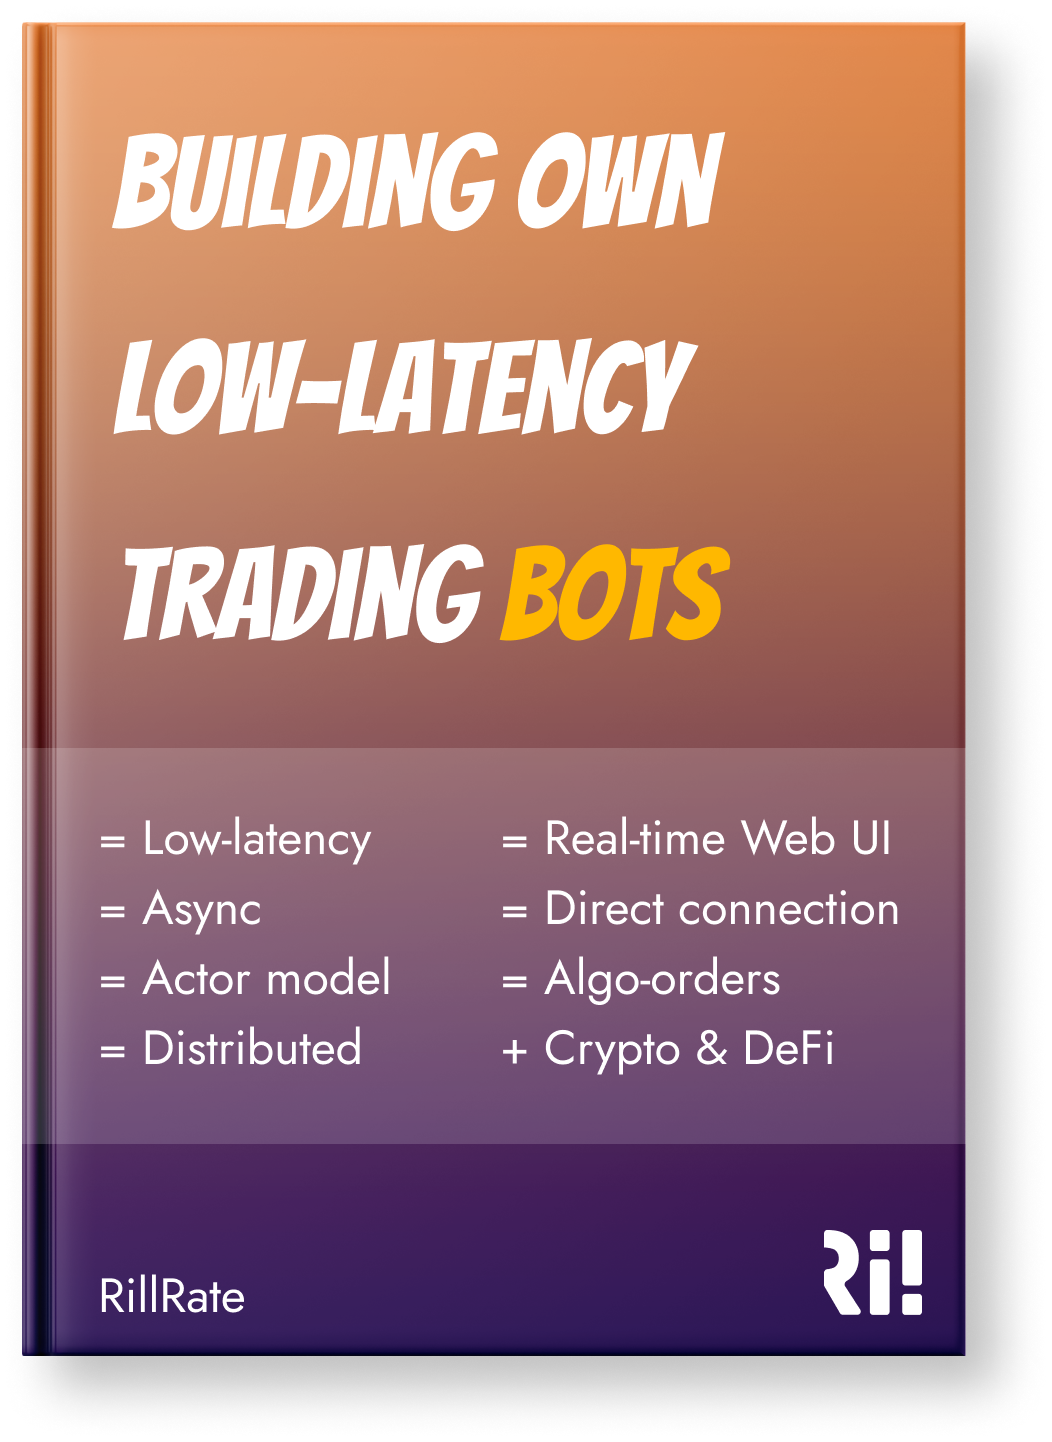
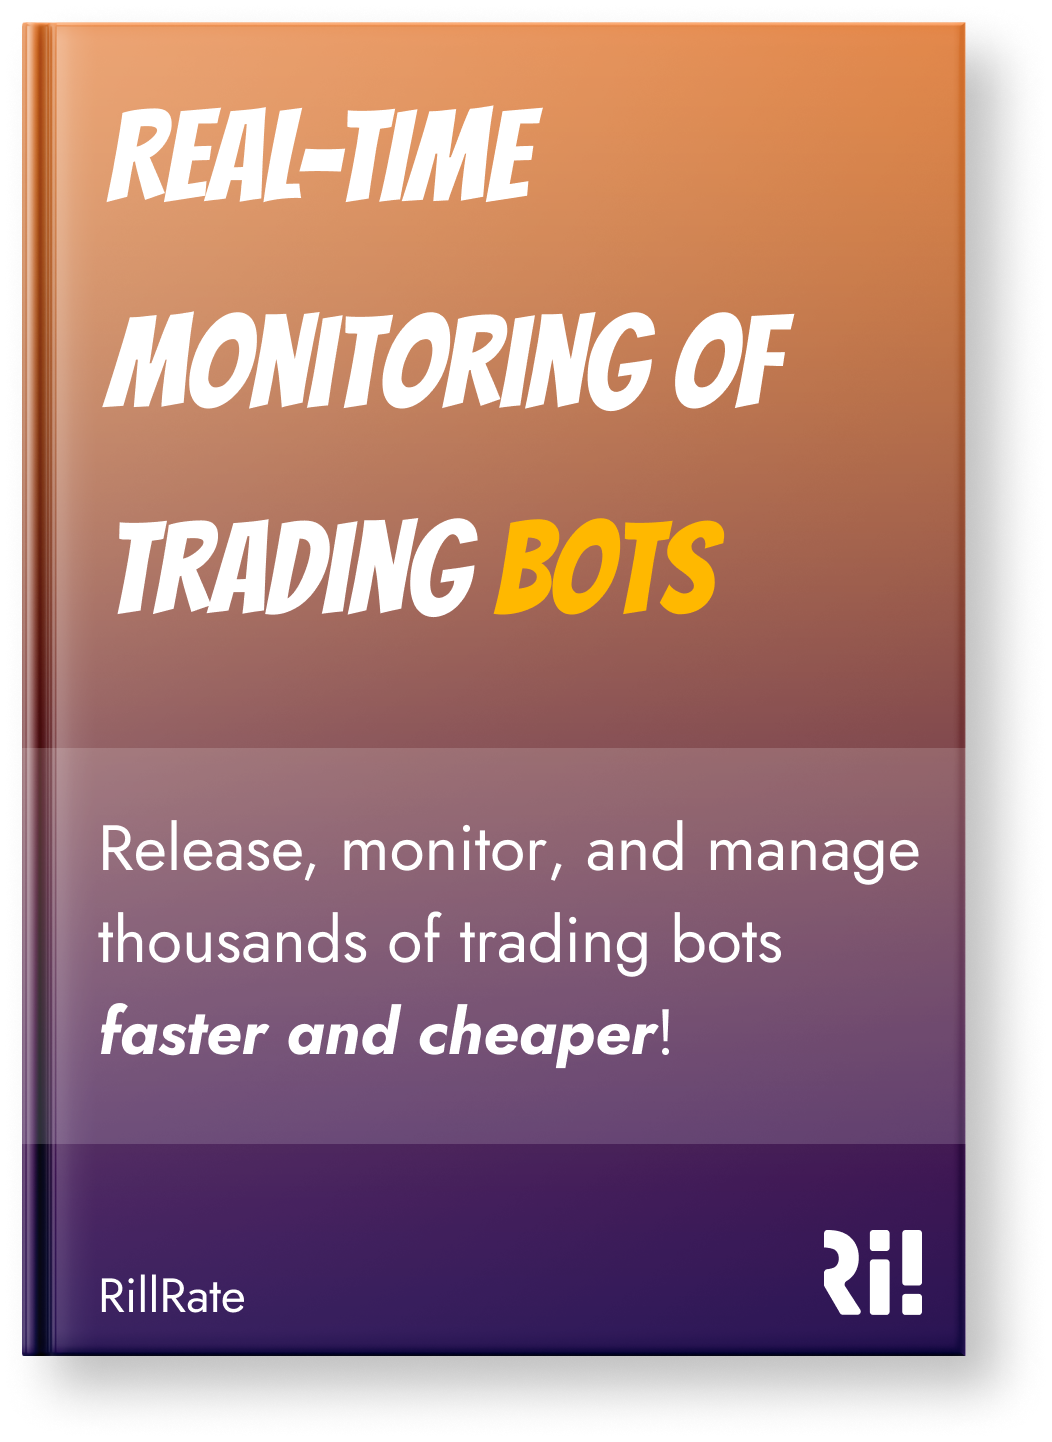
Add reasons

diff --git a/templates/trading.html b/templates/trading.html
@@ -9,12 +9,25 @@
                 <img class="my-3" style="max-width: 80%;" src="/images/trading/book-trading.png" />
             </div>
             <div class="col-lg-6 col-12 d-flex flex-column justify-content-center align-items-center">
-                <p class="mb-5 fw-bold fst-italic" style="max-width: 500px;">Do you want to learn how to create your own real trading bot?</p>
-                <p class="mb-4">New markets and exchanges.</p>
-                <p class="mb-4">Real-time web dashboard.</p>
-                <p class="mb-4">Full-featured bot from scratch.</p>
-                <p class="mb-5">Download the book for <b>free</b>!</p>
-                <a class="btn btn-primary w-50" href="https://docs.google.com/forms/d/e/1FAIpQLSdjXH33cUN0JMV_pexGB-nC-IHu-jExWFCSmBdK8jCoJxWkow/viewform?usp=sf_link">Get It!</a>
+                <p class="mb-5 fw-bold fst-italic" style="max-width: 400px;">
+                    Real-time Monitoring of Trading Bots
+                </p>
+                <p class="mb-4">
+                    How to monitor trading bots effectively?
+                </p>
+                <p class="mb-4">
+                    How to control 1’000 trading bots?
+                </p>
+                <p class="mb-4">
+                    How to work with distributed bots?
+                </p>
+                <p class="mb-4">
+                    How to reduce development costs?
+                </p>
+                <p class="mb-4">
+                    How to release bots faster?
+                </p>
+                <a class="mt-5 btn btn-primary w-50" href="https://docs.google.com/forms/d/e/1FAIpQLSdjXH33cUN0JMV_pexGB-nC-IHu-jExWFCSmBdK8jCoJxWkow/viewform?usp=sf_link">Get It!</a>
             </div>
         </div>
     </div>
@@ -22,7 +35,7 @@
 
 <div class="container-fluid py-5 bg-light">
     <div class="container text-center fs-4 d-flex flex-column align-items-center">
-        <p>The <b>early release</b> book - updates every week!</p>
+        <p>Enhance your company or career.</p>
     </div>
 </div>
 

diff --git a/templates/landing.html b/templates/landing.html
@@ -48,7 +48,7 @@
 <div class="container-fluid py-5 bg-white">
     <div class="container text-center fs-5 d-flex flex-column align-items-center">
         <h5>Contact Us</h5>
-        <p class="pt-5" style="max-width: 600px;">Fill the <a href="https://docs.google.com/forms/d/e/1FAIpQLSdjXH33cUN0JMV_pexGB-nC-IHu-jExWFCSmBdK8jCoJxWkow/viewform?usp=sf_link">form</a> to learn more or to get be notified when new solutions will be available.</p>
+        <p class="pt-5" style="max-width: 600px;">Fill the <a href="https://docs.google.com/forms/d/e/1FAIpQLSc8PlN1IHmtuPb9R1MMgquSKHS_uUMVKBKhlcv_Flua-yytgQ/viewform?usp=sf_link">form</a> to learn more or to be notified when we release a solution for your case.</p>
         <p class="pt-5">Find out more from us: <a class="link link-primary" href="mailto:support@rillrate.com">support@rillrate.com</a></p>
         <p class="pb-5">The source code of the engine you can get on the <a class="link link-primary" href="https://github.com/rillrate/rillrate">GitHub</a>.</p>
     </div>
